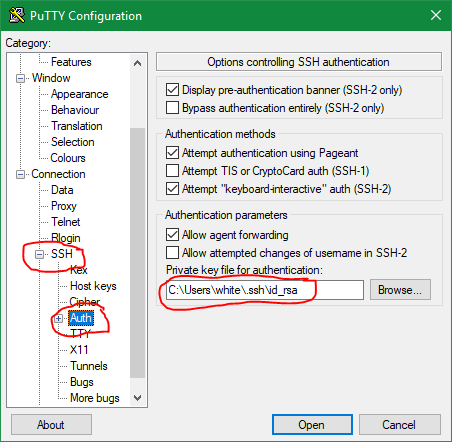
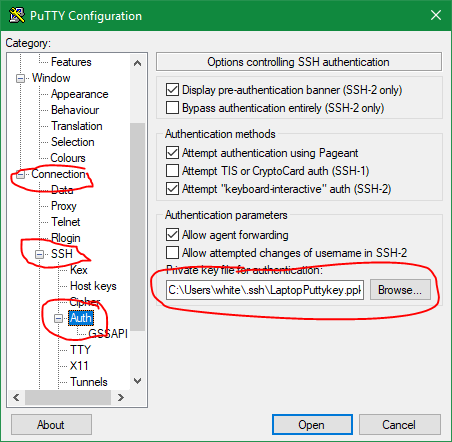
made changes to read me

diff --git a/README.md b/README.md
@@ -21,7 +21,9 @@ $ eval $(ssh-agent -s)
 $ ssh-add .ssh/id_rsa
 ```
 To be able to use this key with TortoiseGit you will need to add it to Putty.  
-First add the generated key to putty under SSH > Auth:  
+You will need to create a Putty version of the private key. First open PuttyGen and click **conversions** and **import key** from the drop down menu. Browse to the _id_rsa_ key and click open. After this you will click **Save private key**, give a name and the file extension **`.ppk`**:  
+![puttygen](img/puttygen.png)  
+Next add the converted key to putty under Connections > SSH > Auth:  
 ![Putty 01](img/putty01.png)  
 
 Then save the key under Session and default settings:  
